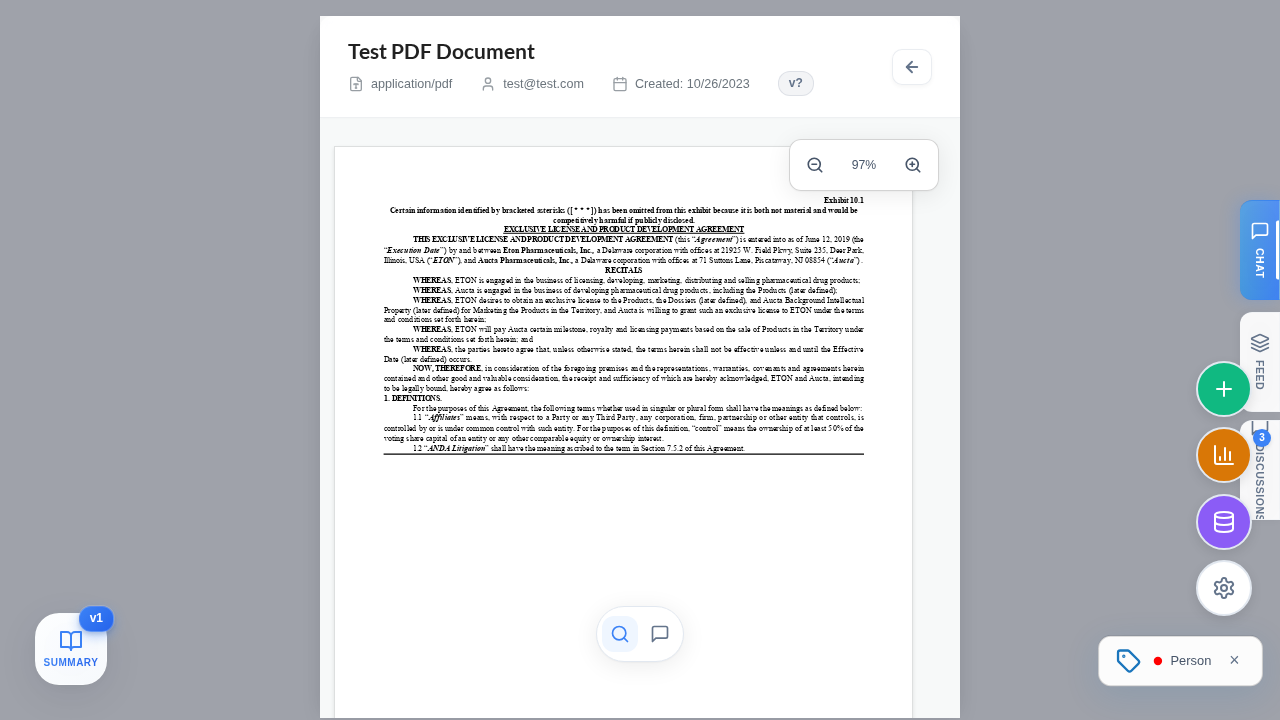
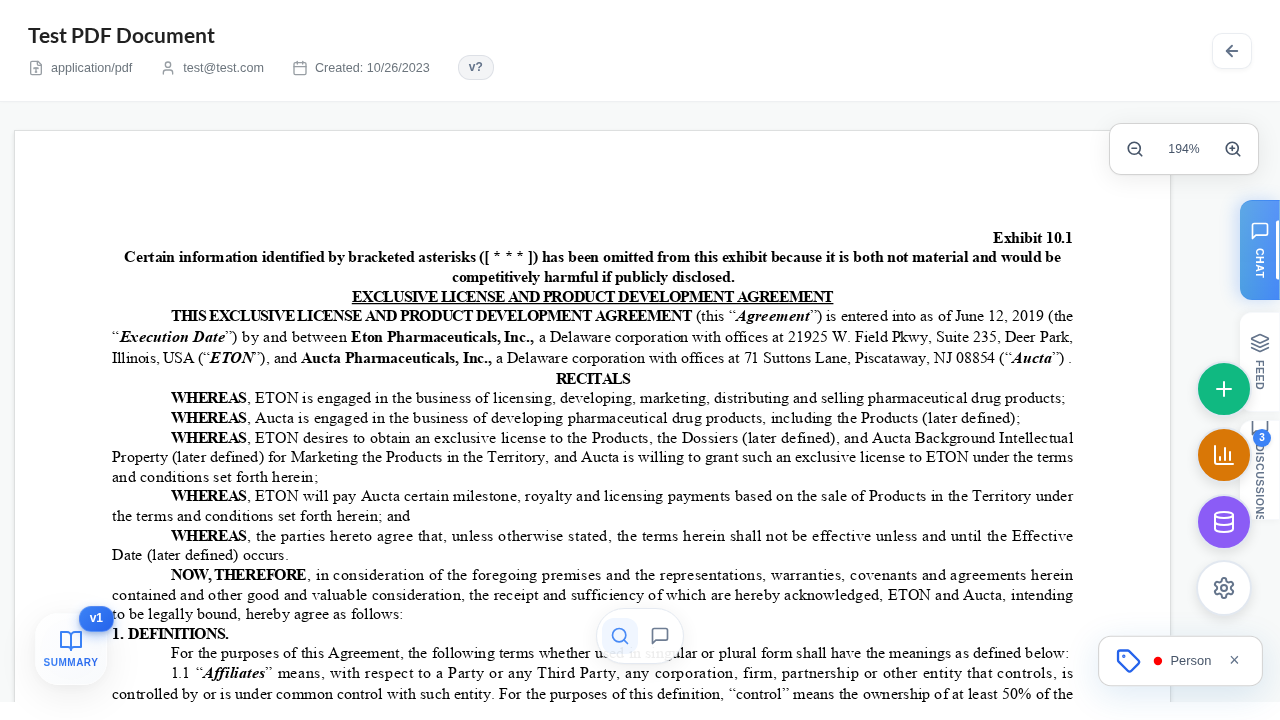
Fix FullScreenModal portal styling with createGlobalStyle
Same portal issue as CorpusModal (38ee541e): @os-legal/ui Modal renders
via a portal outside the React tree, so wrapper descendant selectors
never reached the actual modal DOM. The fullscreen overrides were silently
not applied, causing the PDF viewer to render at default modal size
(97% zoom instead of 215%).

Switch to createGlobalStyle scoped via .fullscreen-modal className,
add min-height: 0 on .oc-modal-body for flex shrinking.

Upstream: Open-Source-Legal/OS-Legal-Style#5
Follow-up: #1073

diff --git a/frontend/src/components/knowledge_base/document/LayoutComponents.tsx b/frontend/src/components/knowledge_base/document/LayoutComponents.tsx
@@ -1,14 +1,18 @@
 import React from "react";
 import { Modal } from "@os-legal/ui";
-import styled from "styled-components";
+import styled, { createGlobalStyle } from "styled-components";
 import { OS_LEGAL_COLORS } from "../../../assets/configurations/osLegalStyles";
 
-const FullScreenModalWrapper = styled.div`
-  .oc-modal-overlay {
-    padding: 0;
+// @os-legal/ui Modal renders via a portal outside the React tree,
+// so wrapper descendant selectors never reach the portal DOM.
+// We must use createGlobalStyle instead. Scoped via .fullscreen-modal class.
+// TODO: Fix upstream in @os-legal/ui — add a size="fullscreen" variant
+const FullScreenModalStyles = createGlobalStyle`
+  .oc-modal-overlay:has(.fullscreen-modal) {
+    padding: 0 !important;
   }
 
-  .oc-modal {
+  .fullscreen-modal {
     position: fixed !important;
     margin: 0 !important;
     top: 0 !important;
@@ -26,11 +30,12 @@ const FullScreenModalWrapper = styled.div`
     overflow: hidden !important;
   }
 
-  .oc-modal-body {
+  .fullscreen-modal .oc-modal-body {
     flex: 1 1 auto !important;
     overflow: hidden !important;
     padding: 0 !important;
     margin: 0 !important;
+    min-height: 0;
   }
 `;
 
@@ -47,17 +52,20 @@ export const FullScreenModal: React.FC<FullScreenModalProps> = ({
   onClose,
   children,
 }) => (
-  <FullScreenModalWrapper id={id}>
+  <>
+    <FullScreenModalStyles />
     <Modal
+      id={id}
       open={open}
       onClose={onClose}
       size="lg"
+      className="fullscreen-modal"
       closeOnEscape={false}
       closeOnOverlay={false}
     >
       {children}
     </Modal>
-  </FullScreenModalWrapper>
+  </>
 );
 
 export const SourceIndicator = styled.div`
